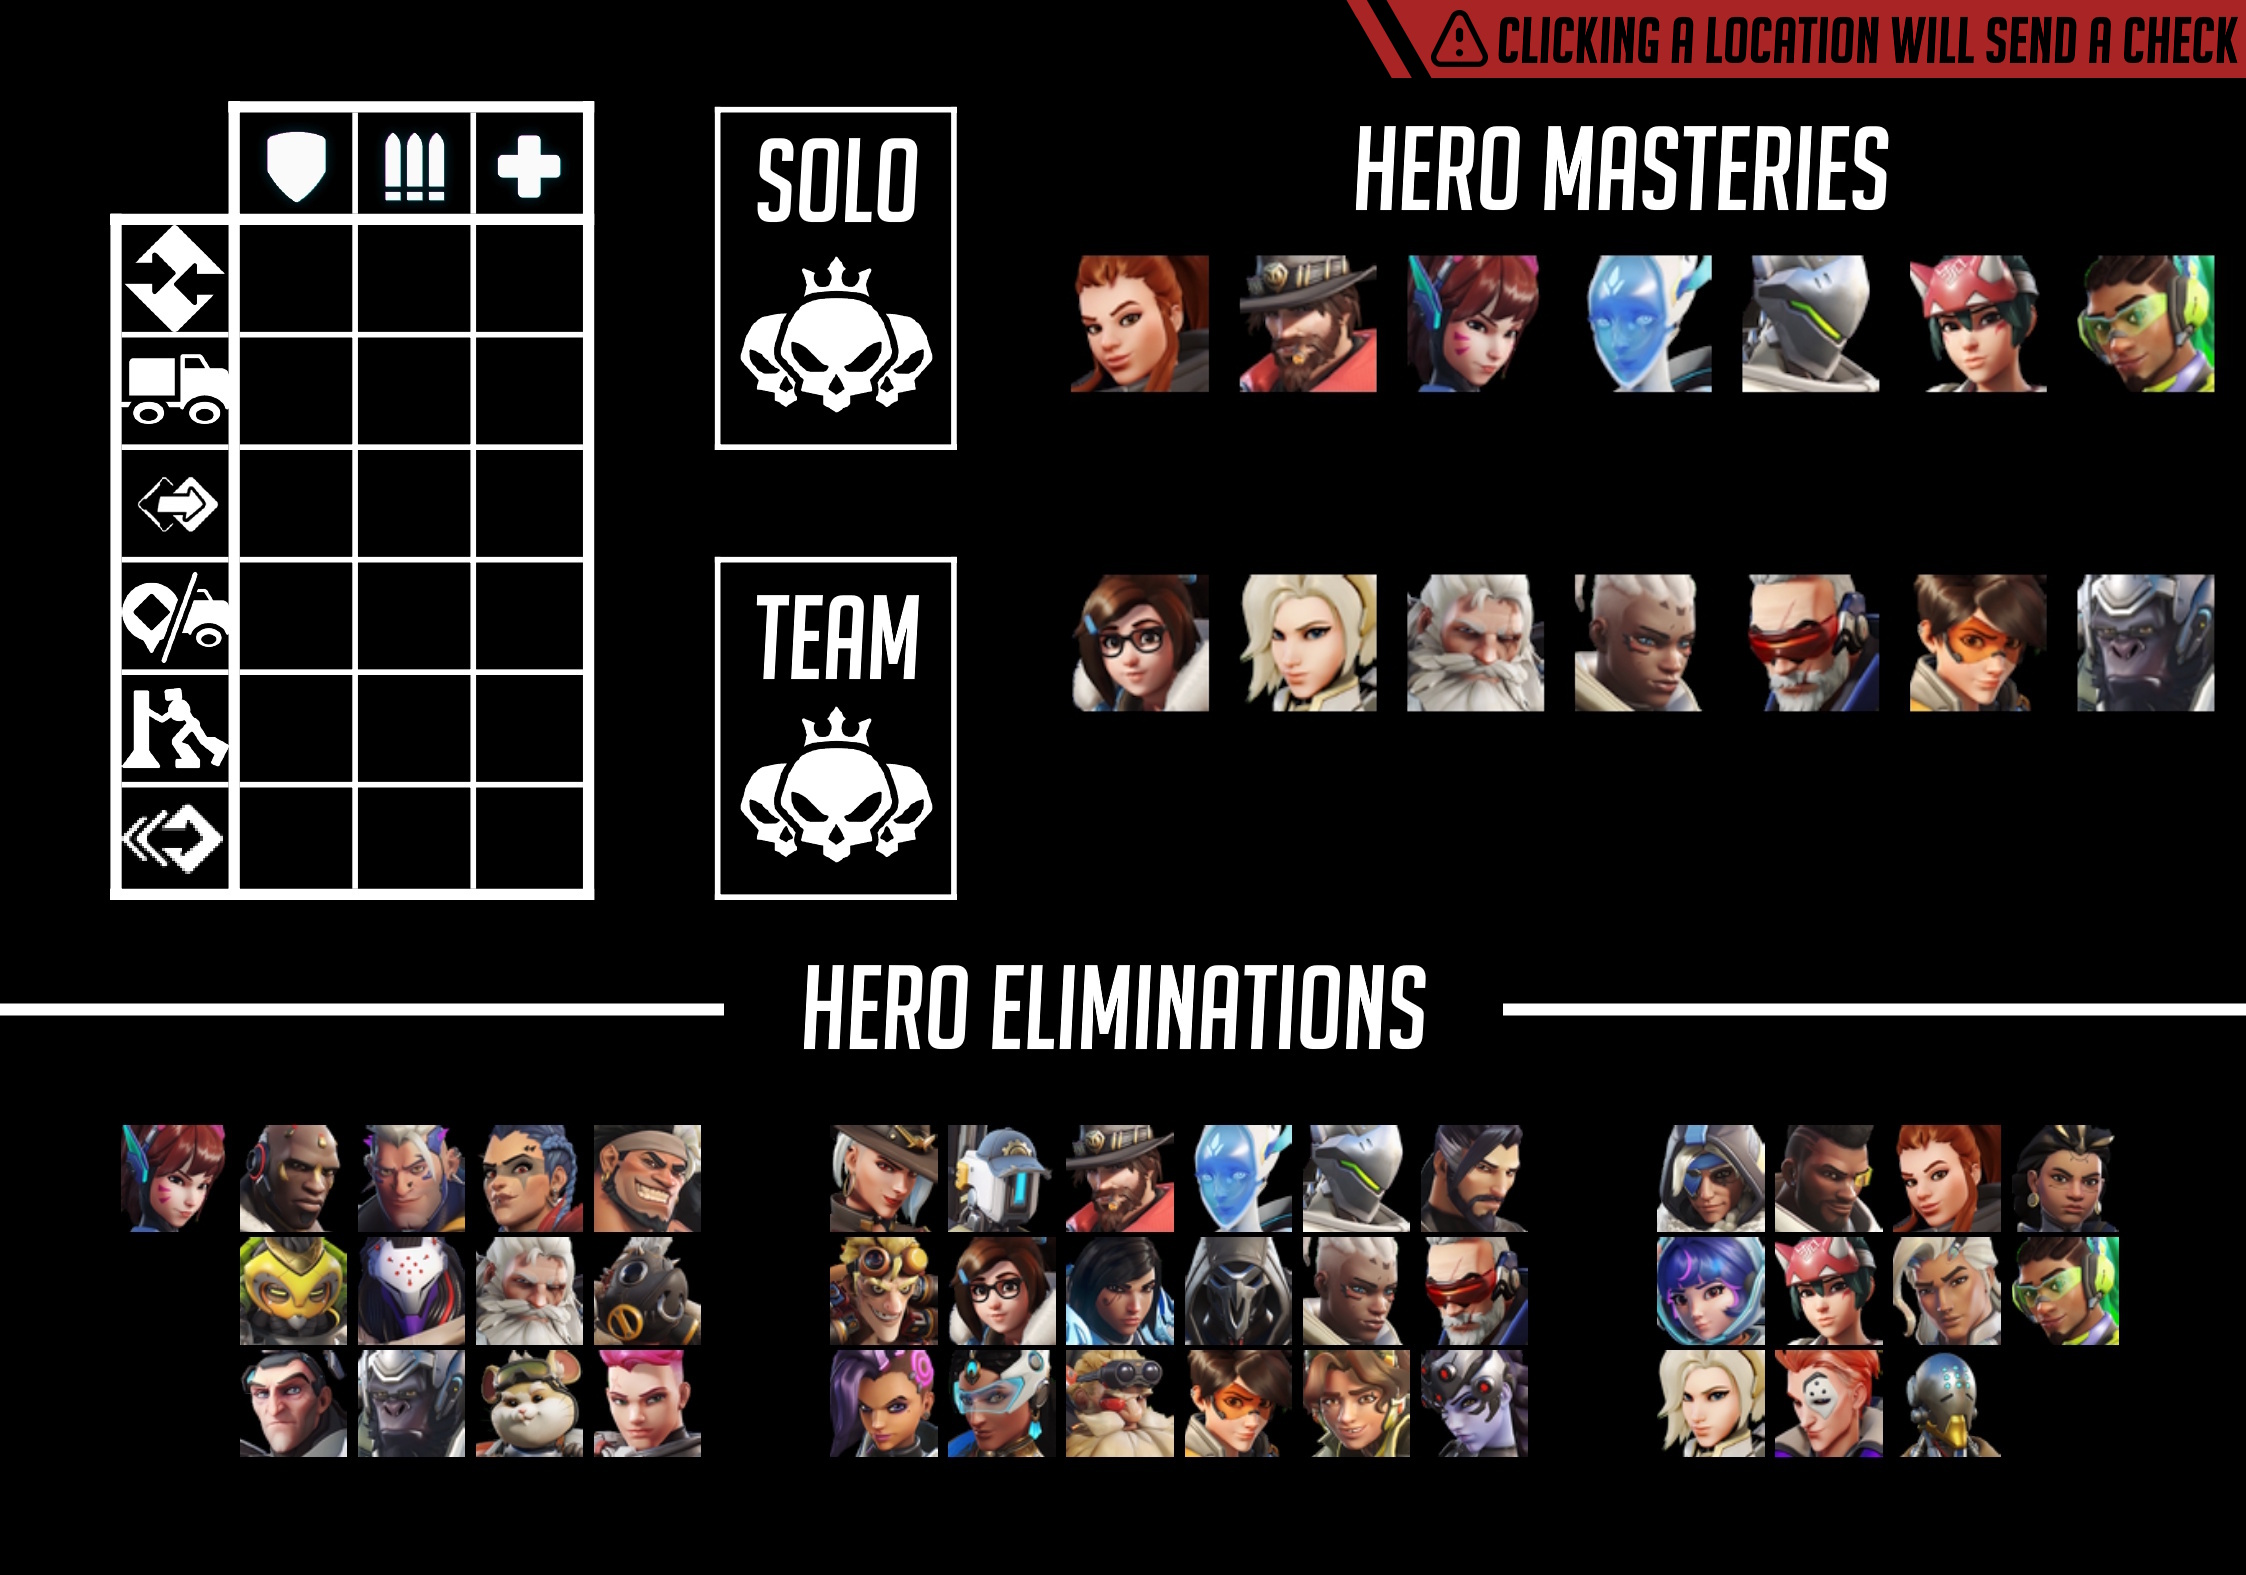
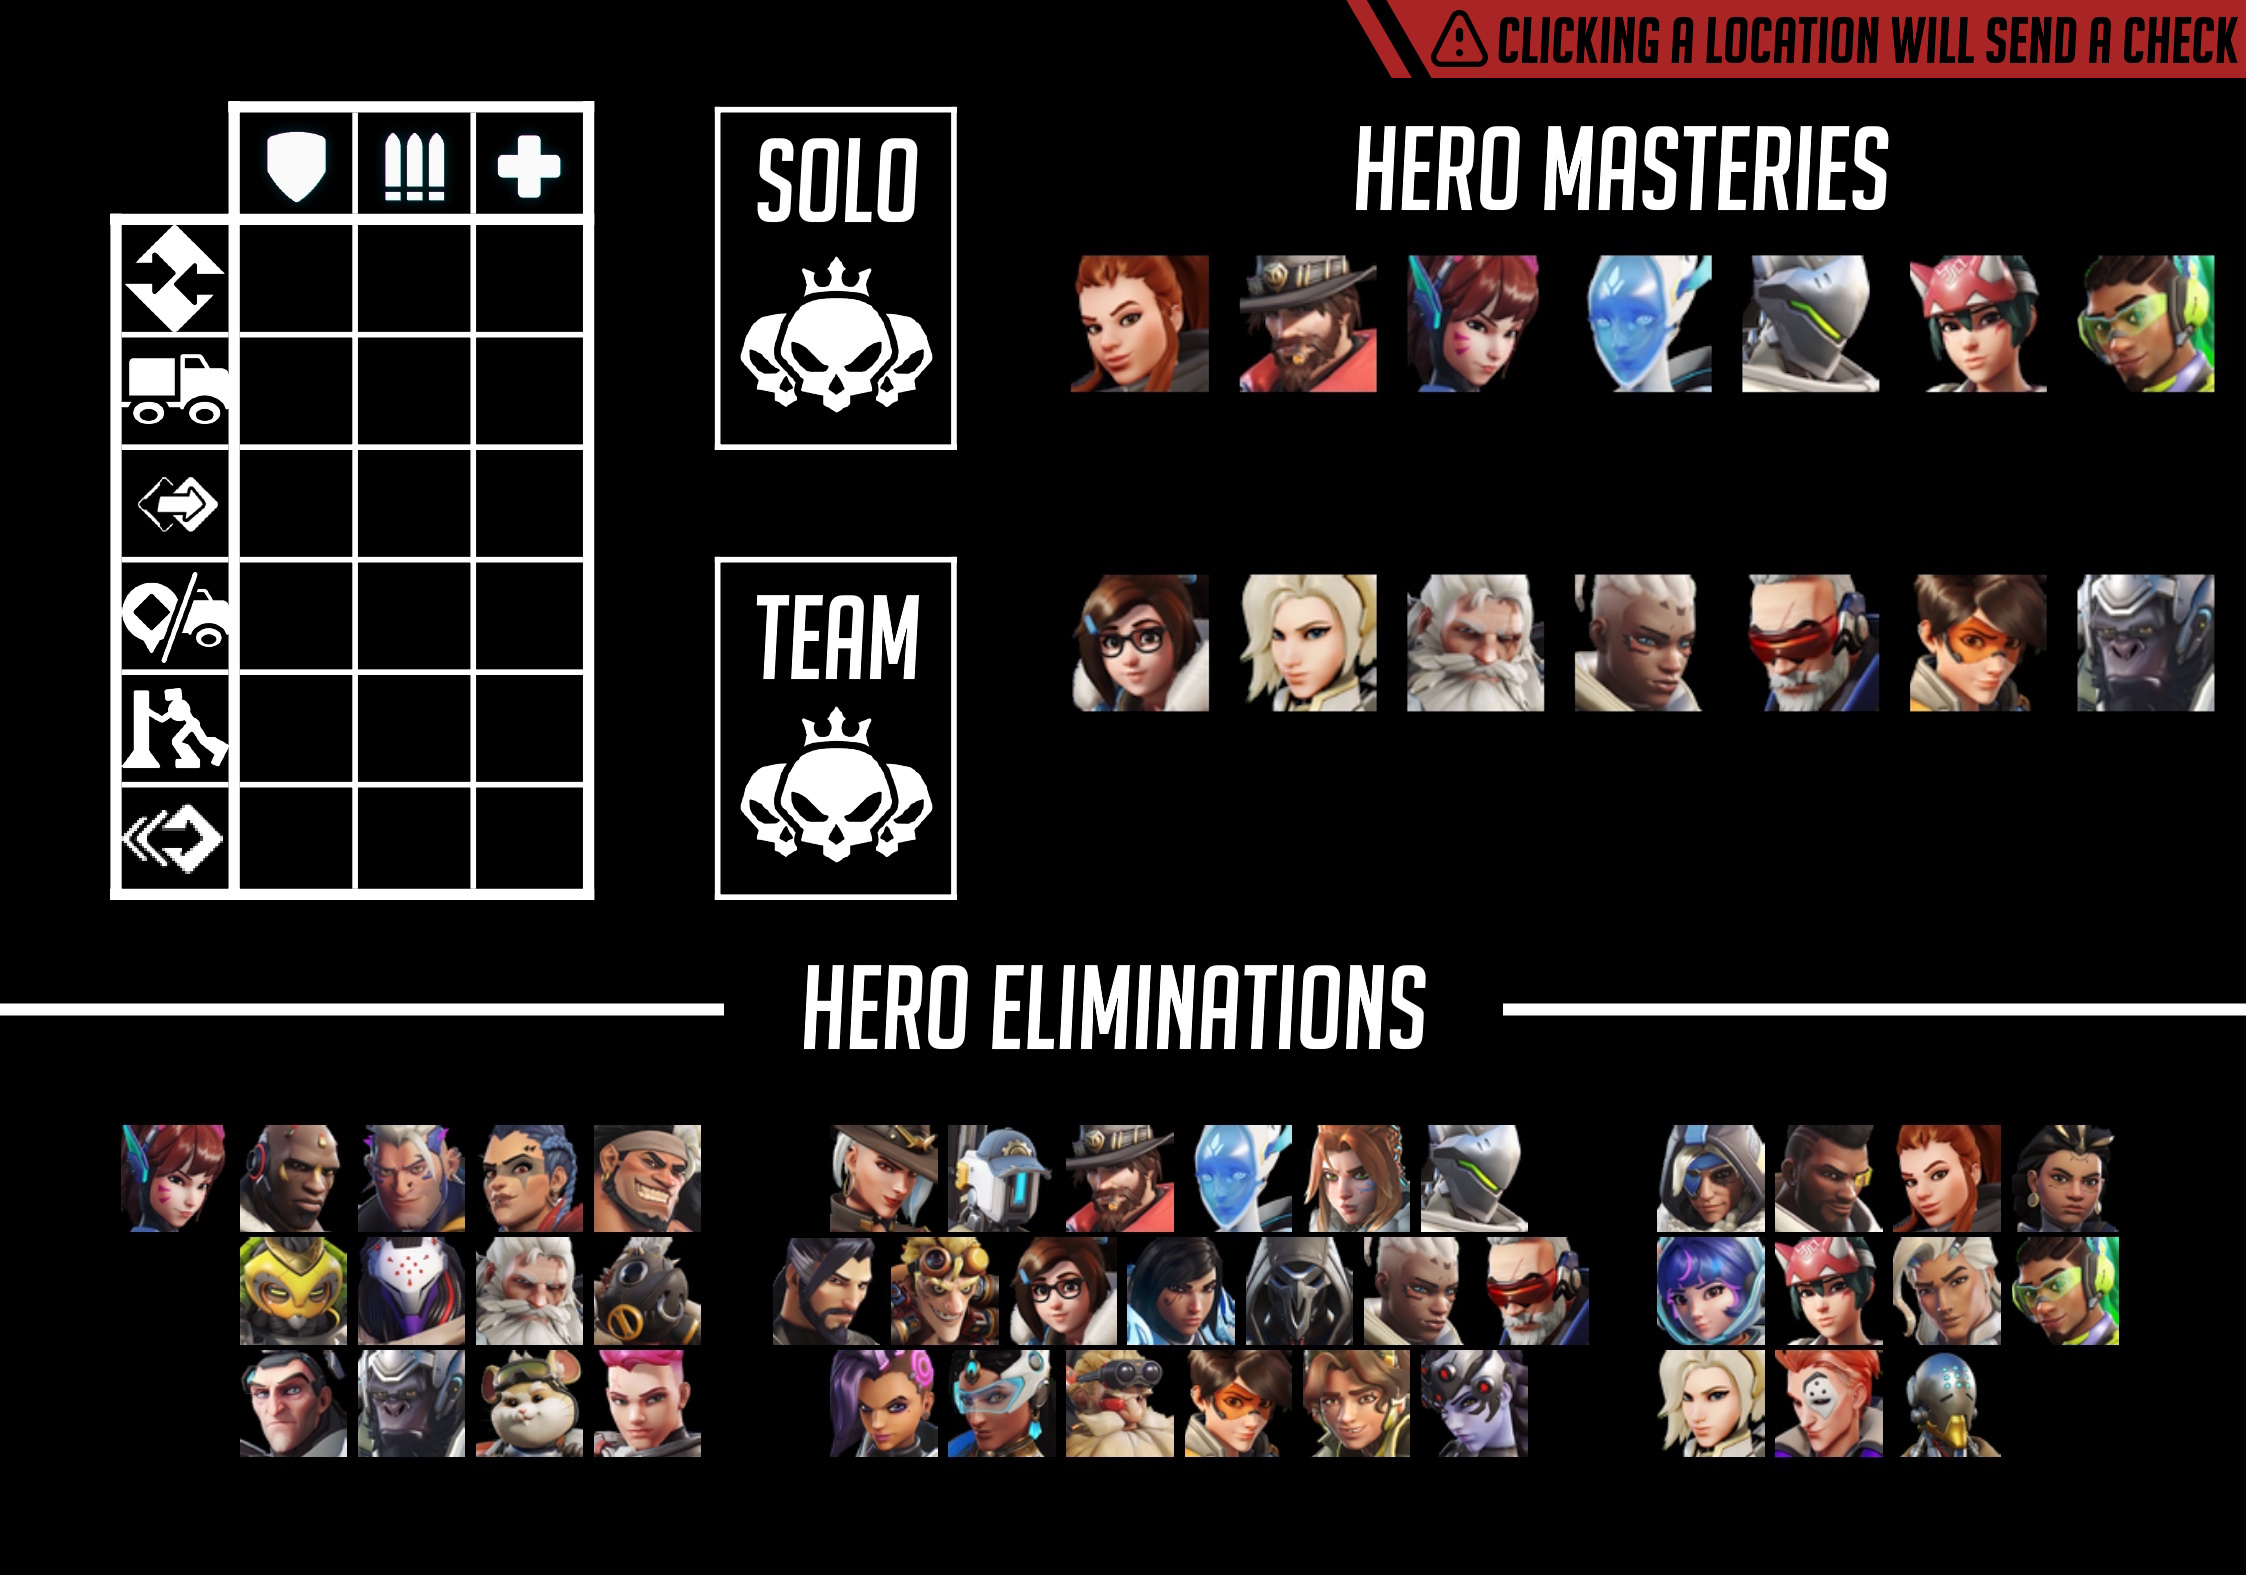
First changes for Freja

Changed region(s): [[0.3428, 0.7156, 0.7168, 0.8711]]

diff --git a/locations/templates/eliminations/HE_code.py b/locations/templates/eliminations/HE_code.py
@@ -27,6 +27,7 @@ info = {
         "Bastion",
         "Cassidy",
         "Echo",
+        "Freja",
         "Genji",
         "Hanzo",
         "Junkrat",
@@ -101,8 +102,16 @@ for role_num in range(len(info)):
             pos_main_offset     = [119, 112]
 
             print(f"{hero_num}: {(hero_num) % 6}, {(hero_num) // 6}")
-            pos_main_x = pos_main_start[0] + ((hero_num % 6)*pos_main_offset[0])
-            pos_main_y = pos_main_start[1] + ((hero_num // 6)*pos_main_offset[1])
+            if hero_num <= 5:
+                pos_main_x = pos_main_start[0] + ((hero_num % 6)*pos_main_offset[0])
+                pos_main_y = pos_main_start[1] + ((hero_num // 6)*pos_main_offset[1])
+            elif hero_num >= 13:
+                pos_main_x = pos_main_start[0] + (((hero_num-1) % 6)*pos_main_offset[0])
+                pos_main_y = pos_main_start[1] + (((hero_num-1) // 6)*pos_main_offset[1])
+            else:
+                pos_main_x = pos_main_start[0] + ((hero_num-6)*pos_main_offset[0]) - 60
+                pos_main_y = pos_main_start[1] + ((6 // 6)*pos_main_offset[1])
+
         else:
             pos_main_start      = [211 + (13*119), 1215]
             pos_main_offset     = [119, 112]

diff --git a/items/templates/include_heroes/IH_code.py b/items/templates/include_heroes/IH_code.py
@@ -16,6 +16,7 @@ heroes = [
     "Bastion",
     "Cassidy",
     "Echo",
+    "Freja",
     "Genji",
     "Hanzo",
     "Junkrat",
